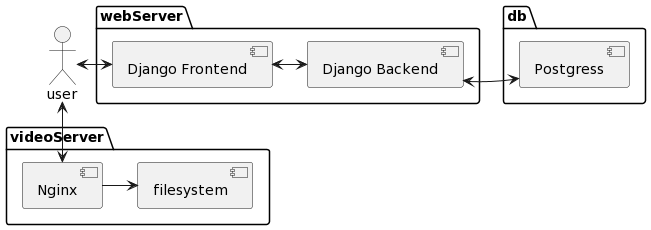
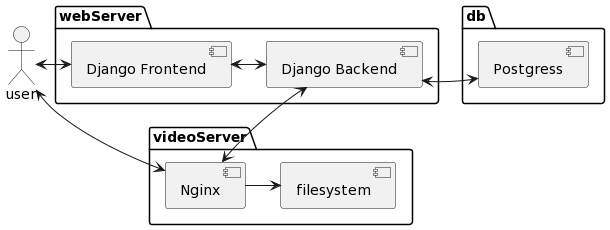
update architecture diagram

diff --git a/README.md b/README.md
@@ -13,4 +13,4 @@
 ![Sequence Diagram](docs/UPLOAD_VIDEO.png)
 
 ## Diagrama de Arquitectura
-![Sequence Diagram](docs/ACHITECTURE_DIAGRAM.png)
+![Architecture Diagram](docs/ACHITECTURE_DIAGRAM.png)

diff --git a/docs/diagramaDeArquitectura.md b/docs/diagramaDeArquitectura.md
@@ -28,5 +28,6 @@ user <--> Nginx
 frontend <-> backend
 backend <-> psql
 Nginx -> filesystem
+backend <-> Nginx
 @enduml
 ```
